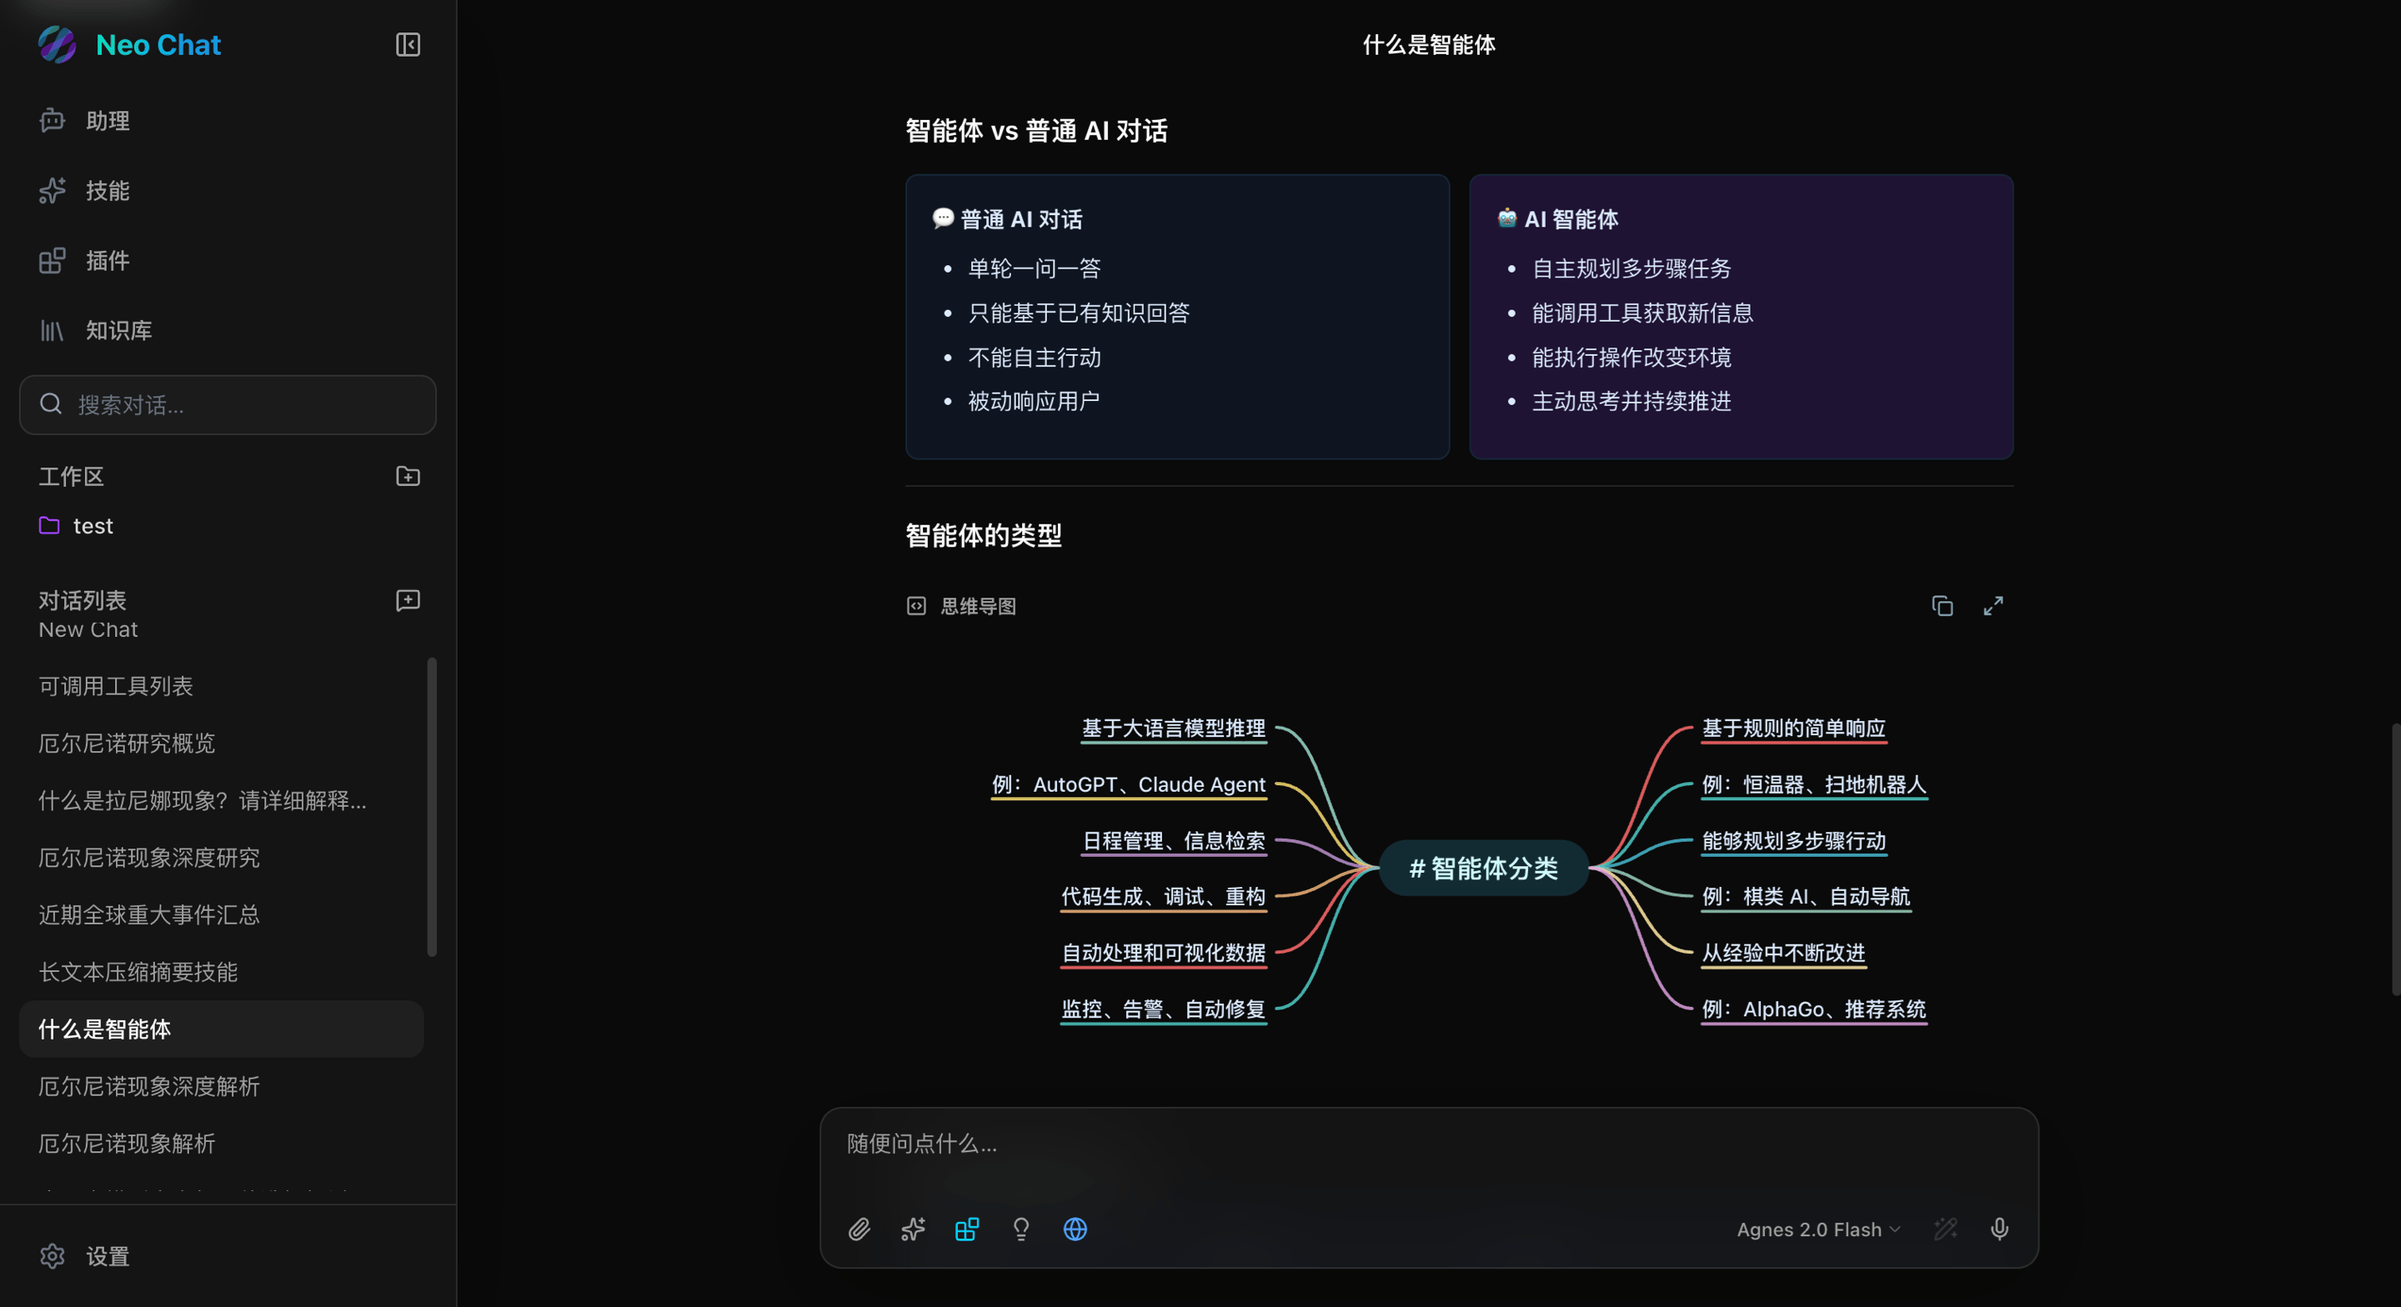
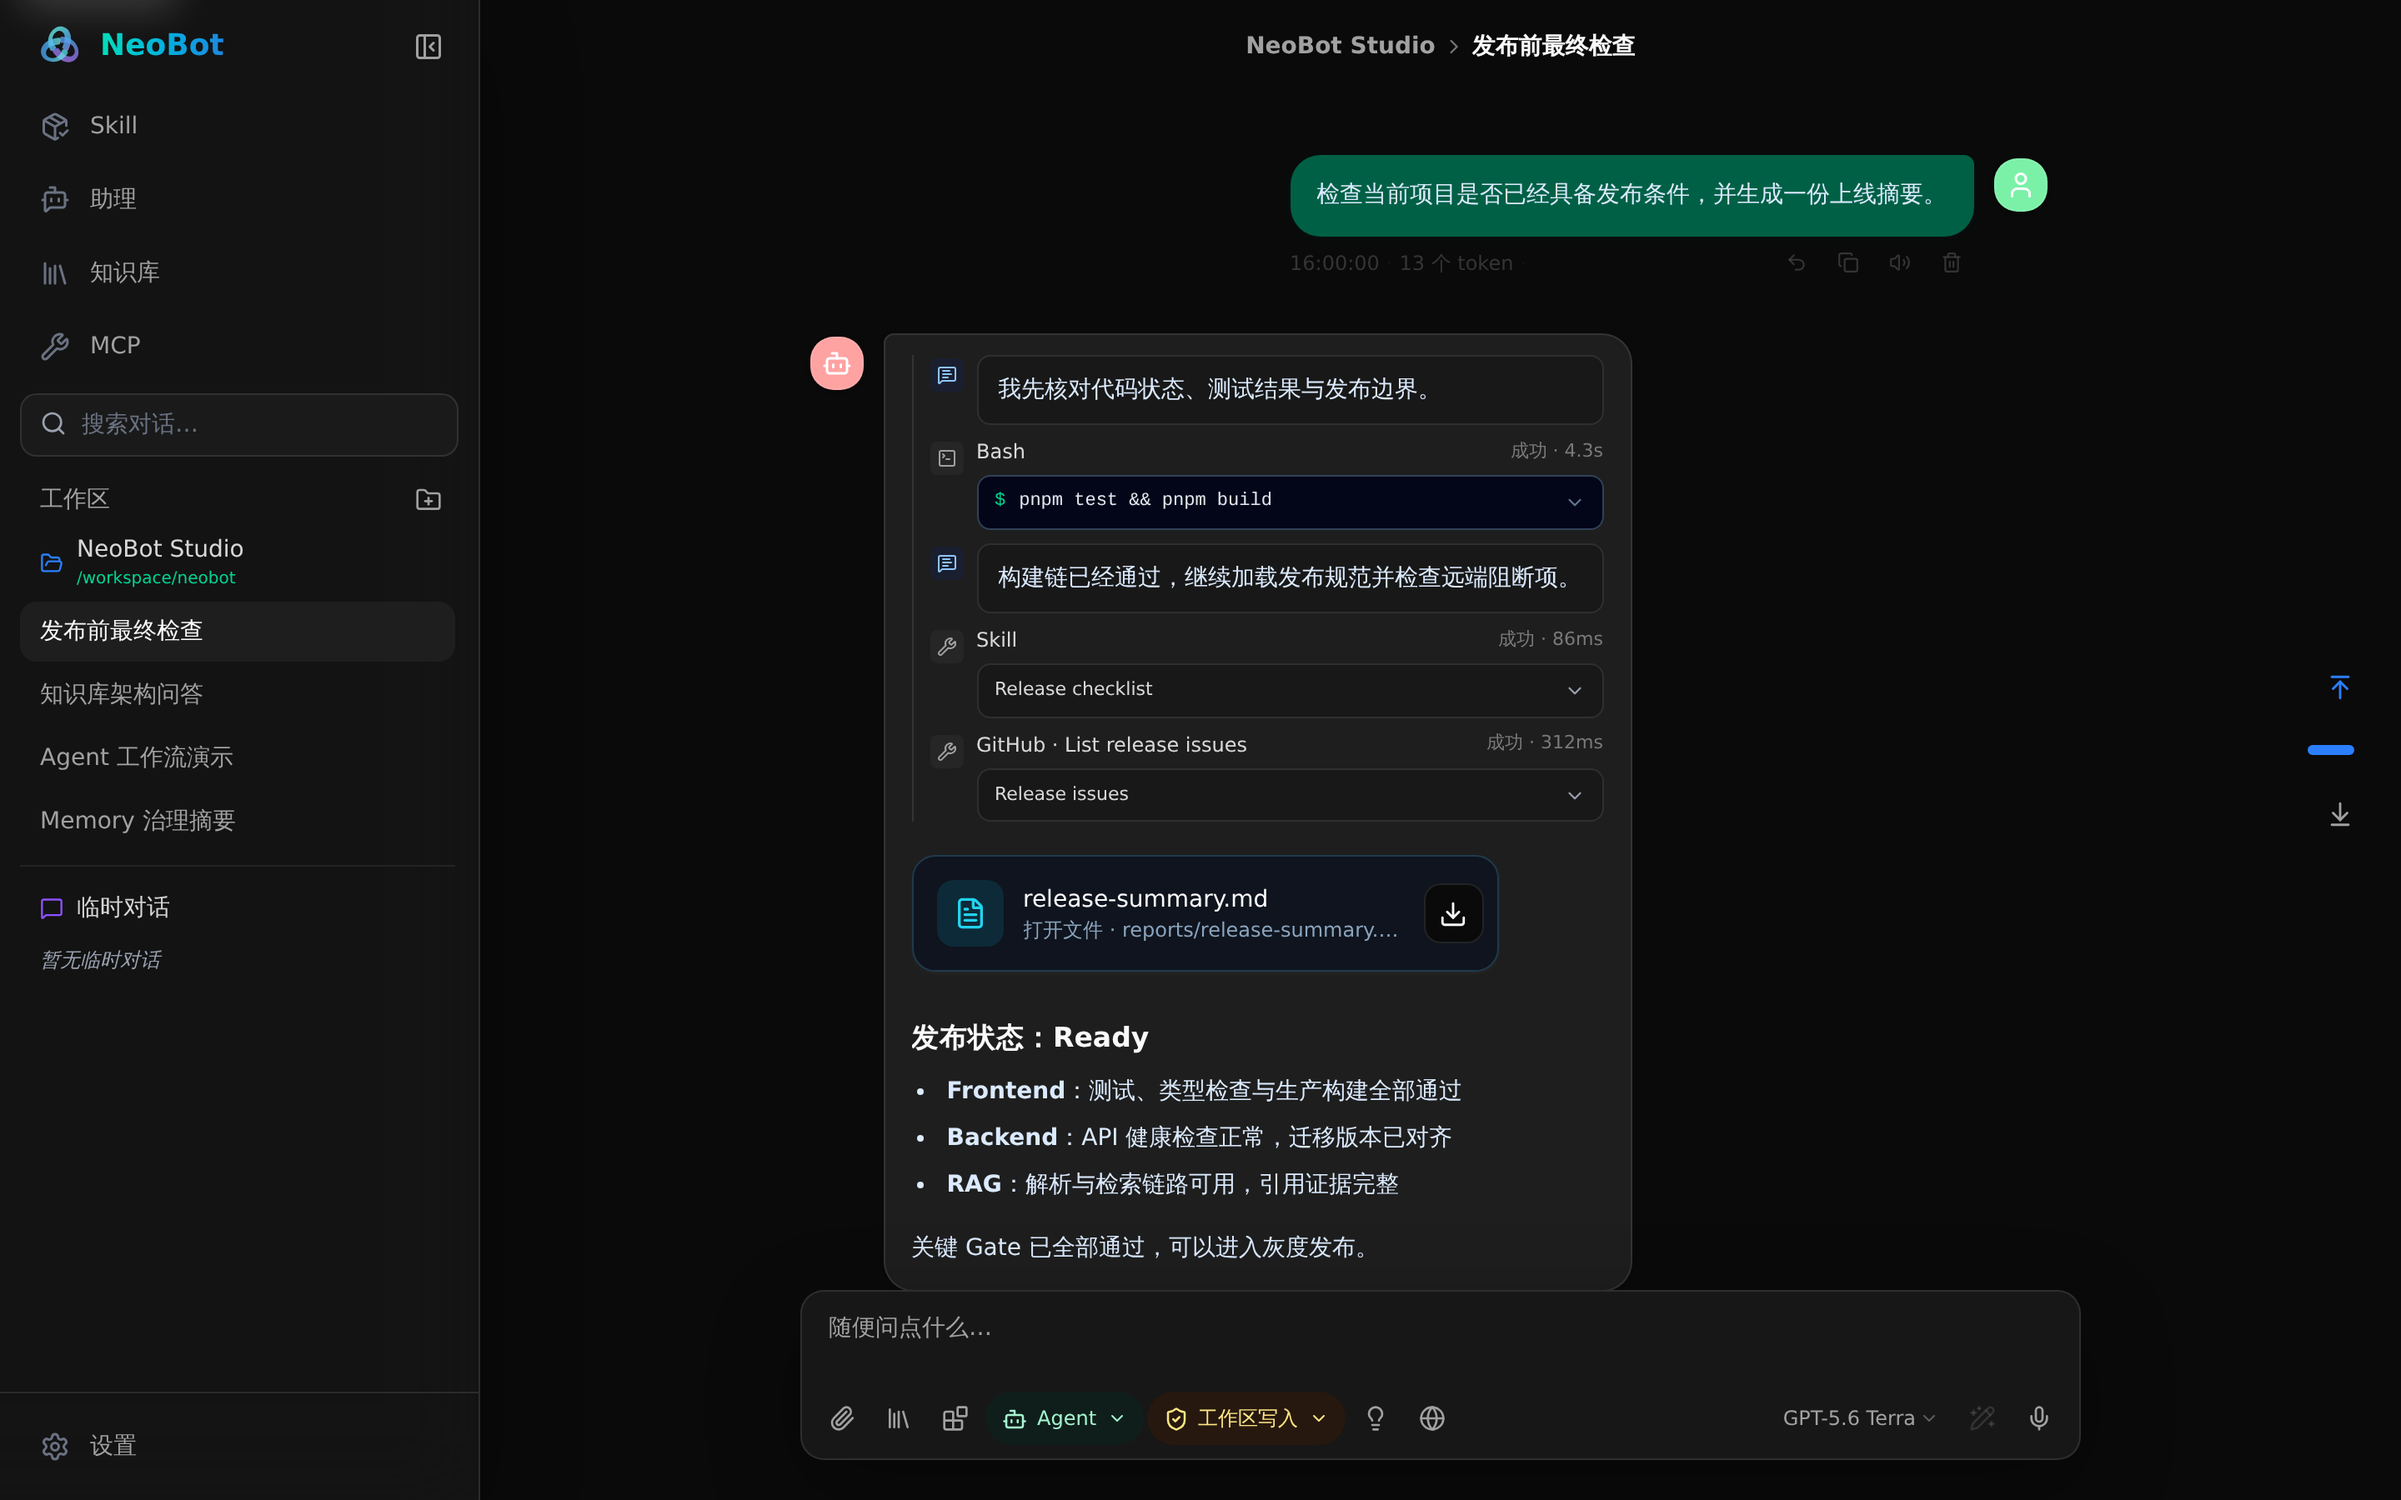
docs: refresh readme screenshots

diff --git a/mm-chat/frontend/src/__tests__/seo.test.ts b/mm-chat/frontend/src/__tests__/seo.test.ts
@@ -1,4 +1,4 @@
-import { existsSync } from "node:fs";
+import { existsSync, readFileSync } from "node:fs";
 import { resolve } from "node:path";
 import { afterEach, describe, expect, it, vi } from "vitest";
 
@@ -40,19 +40,30 @@ describe("SEO screenshot assets", () => {
     expect((seo as { SEO_SCREENSHOTS?: unknown }).SEO_SCREENSHOTS).toEqual([
       {
         src: "/desktop.png",
-        sizes: "2880x1568",
+        sizes: "2880x1800",
         type: "image/png",
         form_factor: "wide",
         label: "NeoBot desktop workspace screenshot",
       },
       {
         src: "/mobile.png",
-        sizes: "1490x1332",
+        sizes: "860x1440",
         type: "image/png",
         form_factor: "narrow",
         label: "NeoBot mobile workspace screenshot",
       },
     ]);
+  });
+
+  it("keeps declared screenshot sizes aligned with the PNG assets", () => {
+    for (const screenshot of seo.SEO_SCREENSHOTS) {
+      const png = readFileSync(
+        resolve(process.cwd(), "public", screenshot.src.slice(1)),
+      );
+      const actualSize = `${png.readUInt32BE(16)}x${png.readUInt32BE(20)}`;
+
+      expect(actualSize).toBe(screenshot.sizes);
+    }
   });
 
   it("uses screenshots as structured data images", () => {
@@ -84,7 +95,7 @@ describe("SEO screenshot assets", () => {
     expect(seo.getSeoOpenGraphImages("NeoBot")[0]).toMatchObject({
       url: "https://chat.example.com/desktop.png",
       width: 2880,
-      height: 1568,
+      height: 1800,
       alt: "NeoBot",
     });
   });

diff --git a/mm-chat/frontend/src/lib/seo.ts b/mm-chat/frontend/src/lib/seo.ts
@@ -37,14 +37,14 @@ type SeoScreenshotDimensions = {
 export const SEO_SCREENSHOTS: SeoScreenshot[] = [
   {
     src: DESKTOP_SCREENSHOT_SRC,
-    sizes: "2880x1568",
+    sizes: "2880x1800",
     type: "image/png",
     form_factor: "wide",
     label: "NeoBot desktop workspace screenshot",
   },
   {
     src: MOBILE_SCREENSHOT_SRC,
-    sizes: "1490x1332",
+    sizes: "860x1440",
     type: "image/png",
     form_factor: "narrow",
     label: "NeoBot mobile workspace screenshot",
@@ -55,8 +55,8 @@ const SEO_SCREENSHOT_DIMENSIONS: Record<
   SeoScreenshotSrc,
   SeoScreenshotDimensions
 > = {
-  [DESKTOP_SCREENSHOT_SRC]: { width: 2880, height: 1568 },
-  [MOBILE_SCREENSHOT_SRC]: { width: 1490, height: 1332 },
+  [DESKTOP_SCREENSHOT_SRC]: { width: 2880, height: 1800 },
+  [MOBILE_SCREENSHOT_SRC]: { width: 860, height: 1440 },
 };
 
 export const SEO_CONTENT: Record<SeoLocale, SeoContent> = {

diff --git a/README.md b/README.md
@@ -48,7 +48,9 @@ contain a second application.
 
 ![NeoBot desktop workspace](mm-chat/frontend/public/desktop.png)
 
-![NeoBot mobile workspace](mm-chat/frontend/public/mobile.png)
+<p align="center">
+  <img src="mm-chat/frontend/public/mobile.png" alt="NeoBot mobile workspace" width="430" />
+</p>
 
 ## Repository layout
 
